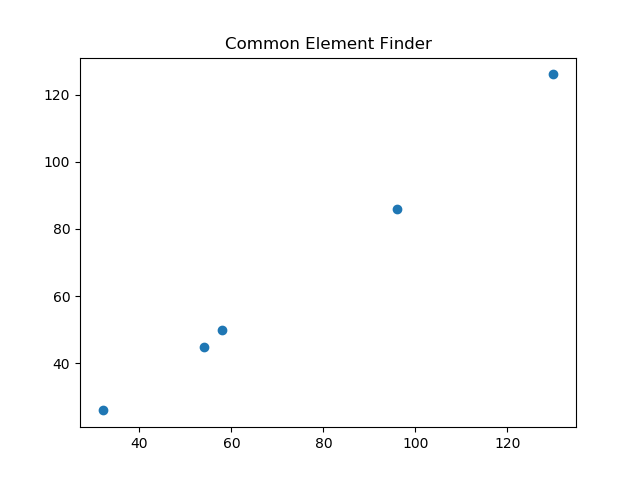
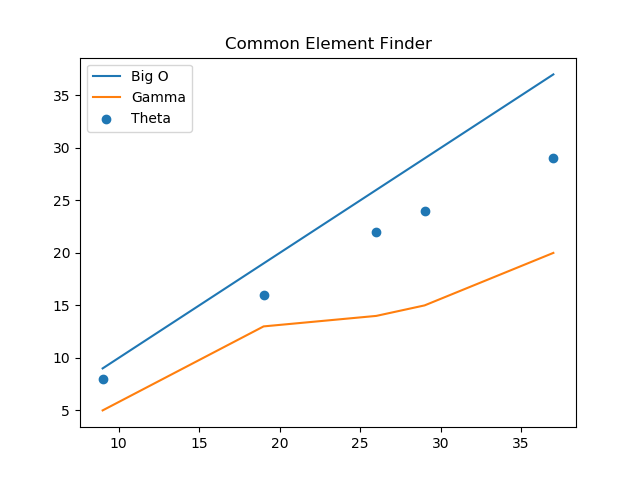
added upper and lower bound to common element graph

diff --git a/main.py b/main.py
@@ -72,25 +72,34 @@ plt.show()
 
 #demonstrate complexity of finding common elements
 i = 0
-list1, list2, output, numIters, xaxis = [], [], [], [], []
+list1, list2, output, numIters, xaxisGamma, xaxisBigO = [], [], [], [], [], []
 
 while i < 5:
-    n = rand.randint(1, 20)
-    j, count = 0, 0
+    n = rand.randint(1, 10)
+    m = rand.randint(1, 10)
+    j, y, count = 0, 0, 0
     #generate 2 lists of n size full of random numbers
     while j < n:
         list1.append(rand.randint(1,100))
-        list2.append(rand.randint(1,100))
         j+=1
+    while y < m:
+        list2.append(rand.randint(1,100))
+        y+=1
     #sort both lists in ascending order
-    list1, list2 = (list(x) for x in zip(*sorted(zip(list1, list2), key=lambda pair: pair[0])))
-    #add the size of the two lists to the xaxis
-    xaxis.append(len(list1) + len(list2))
+    print("list1 size", len(list1))
+    print("list2 size", len(list2))
+    list1.sort()
+    list2.sort()
+    #add the max of list1 and list2 to xaxis
+    xaxisGamma.append(max(len(list1), len(list2)))
+    xaxisBigO.append(len(list1)+len(list2))
     numIters.append(comElems(list1, list2, output, count))
     i+=1
-xaxis.sort()
-print("sizes of list1+list2", xaxis)
-print("number of increments", numIters)
-plt.scatter(xaxis, numIters)
+xaxisBigO.sort()
+xaxisGamma.sort()
+line_mid = plt.scatter(xaxisBigO, numIters, label="Theta")
+line_up = plt.plot(xaxisBigO, xaxisBigO, label="Big O")
+line_down = plt.plot(xaxisBigO, xaxisGamma, label="Gamma")
+plt.legend()
 plt.title("Common Element Finder")
 plt.show()

diff --git a/CommonElements.py b/CommonElements.py
@@ -6,7 +6,7 @@ def comElems(list1, list2, output, count):
     i = 0
     j = 0
     while (i < len(list1) and j < len(list2)):
-        count += 1
+        count+=1
         if (list1[i] > list2[j]):
             j+=1
         elif (list1[i] < list2[j]):
